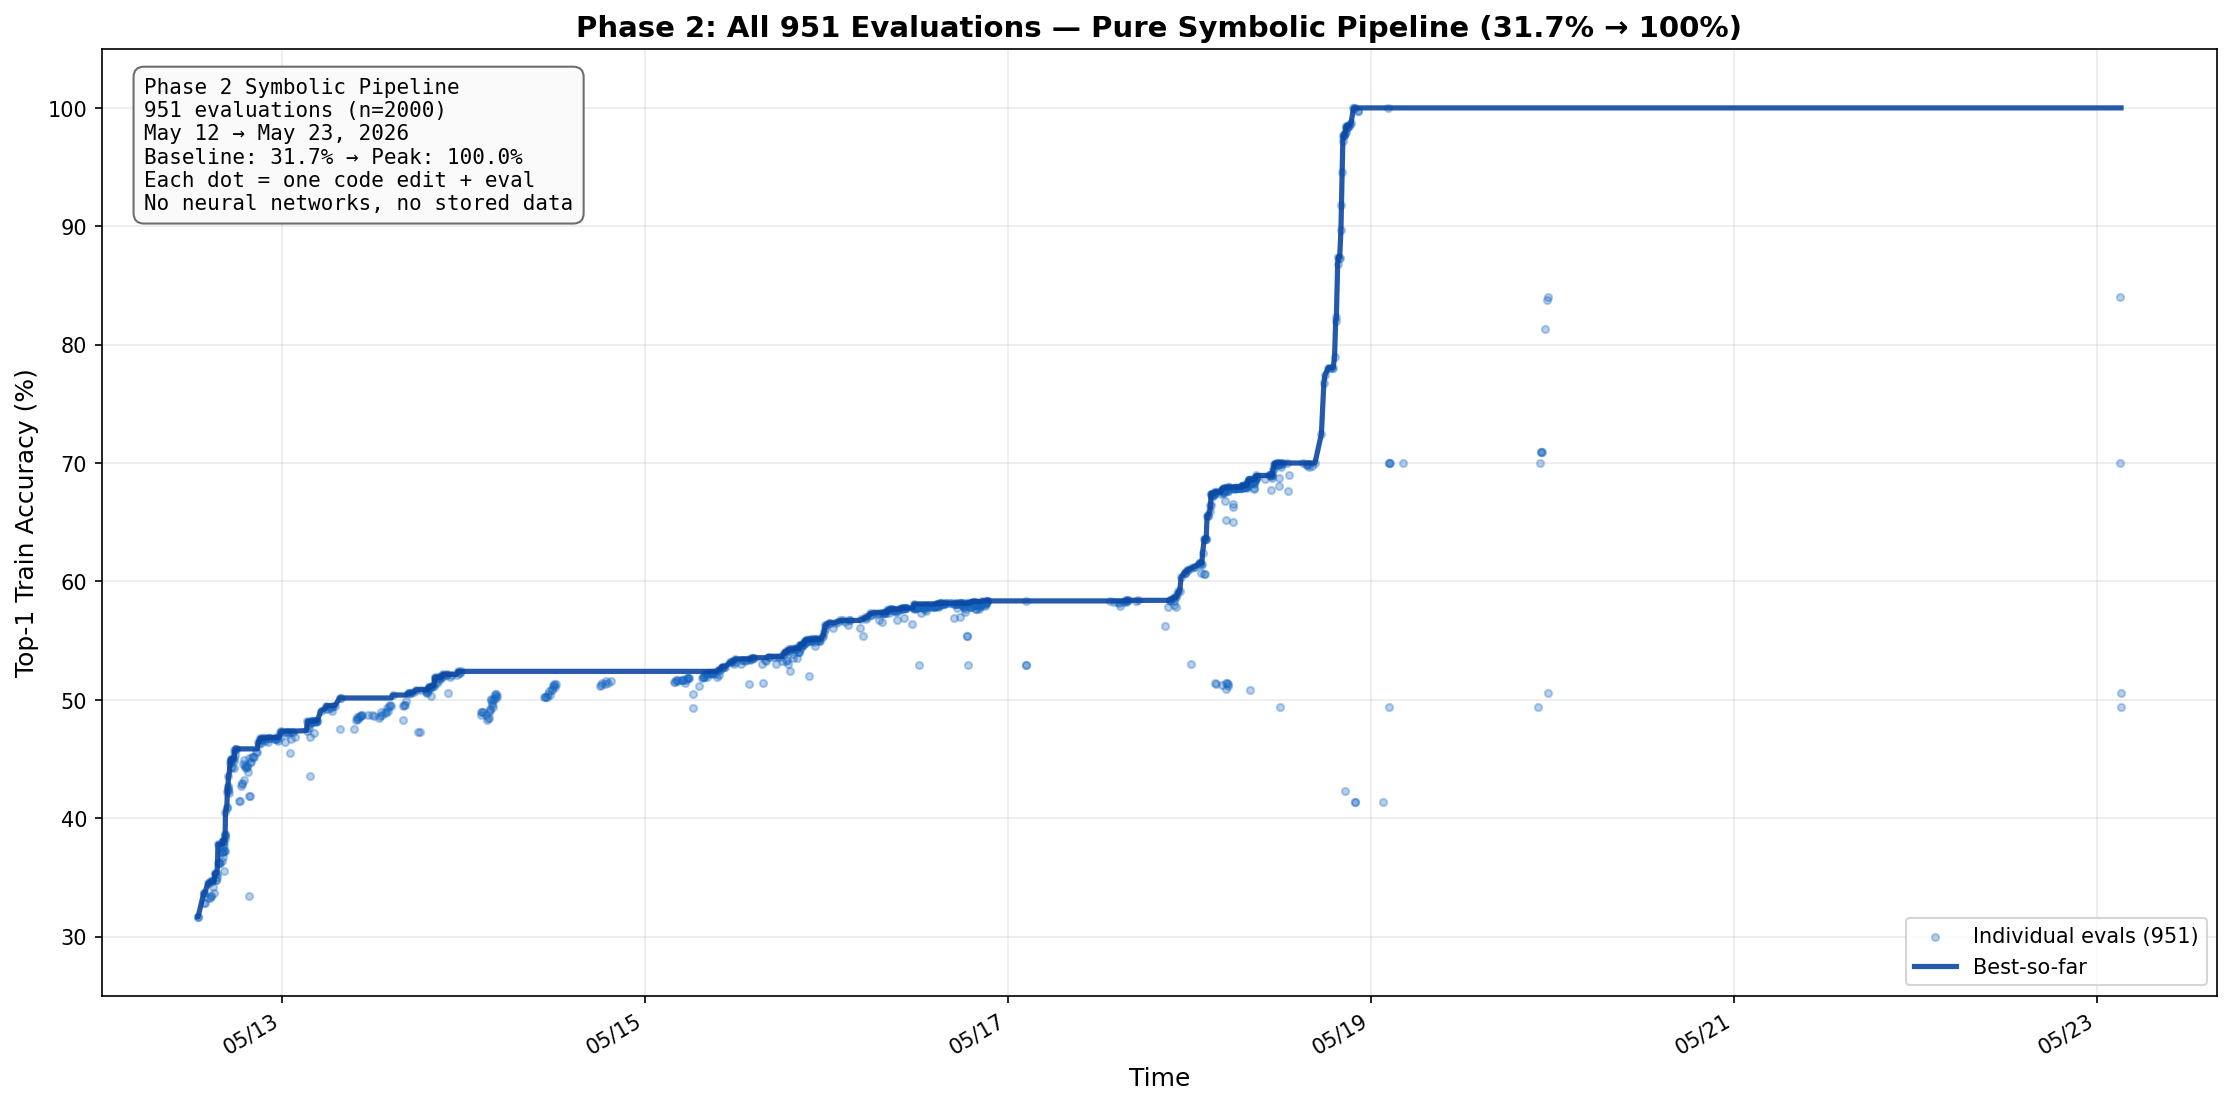
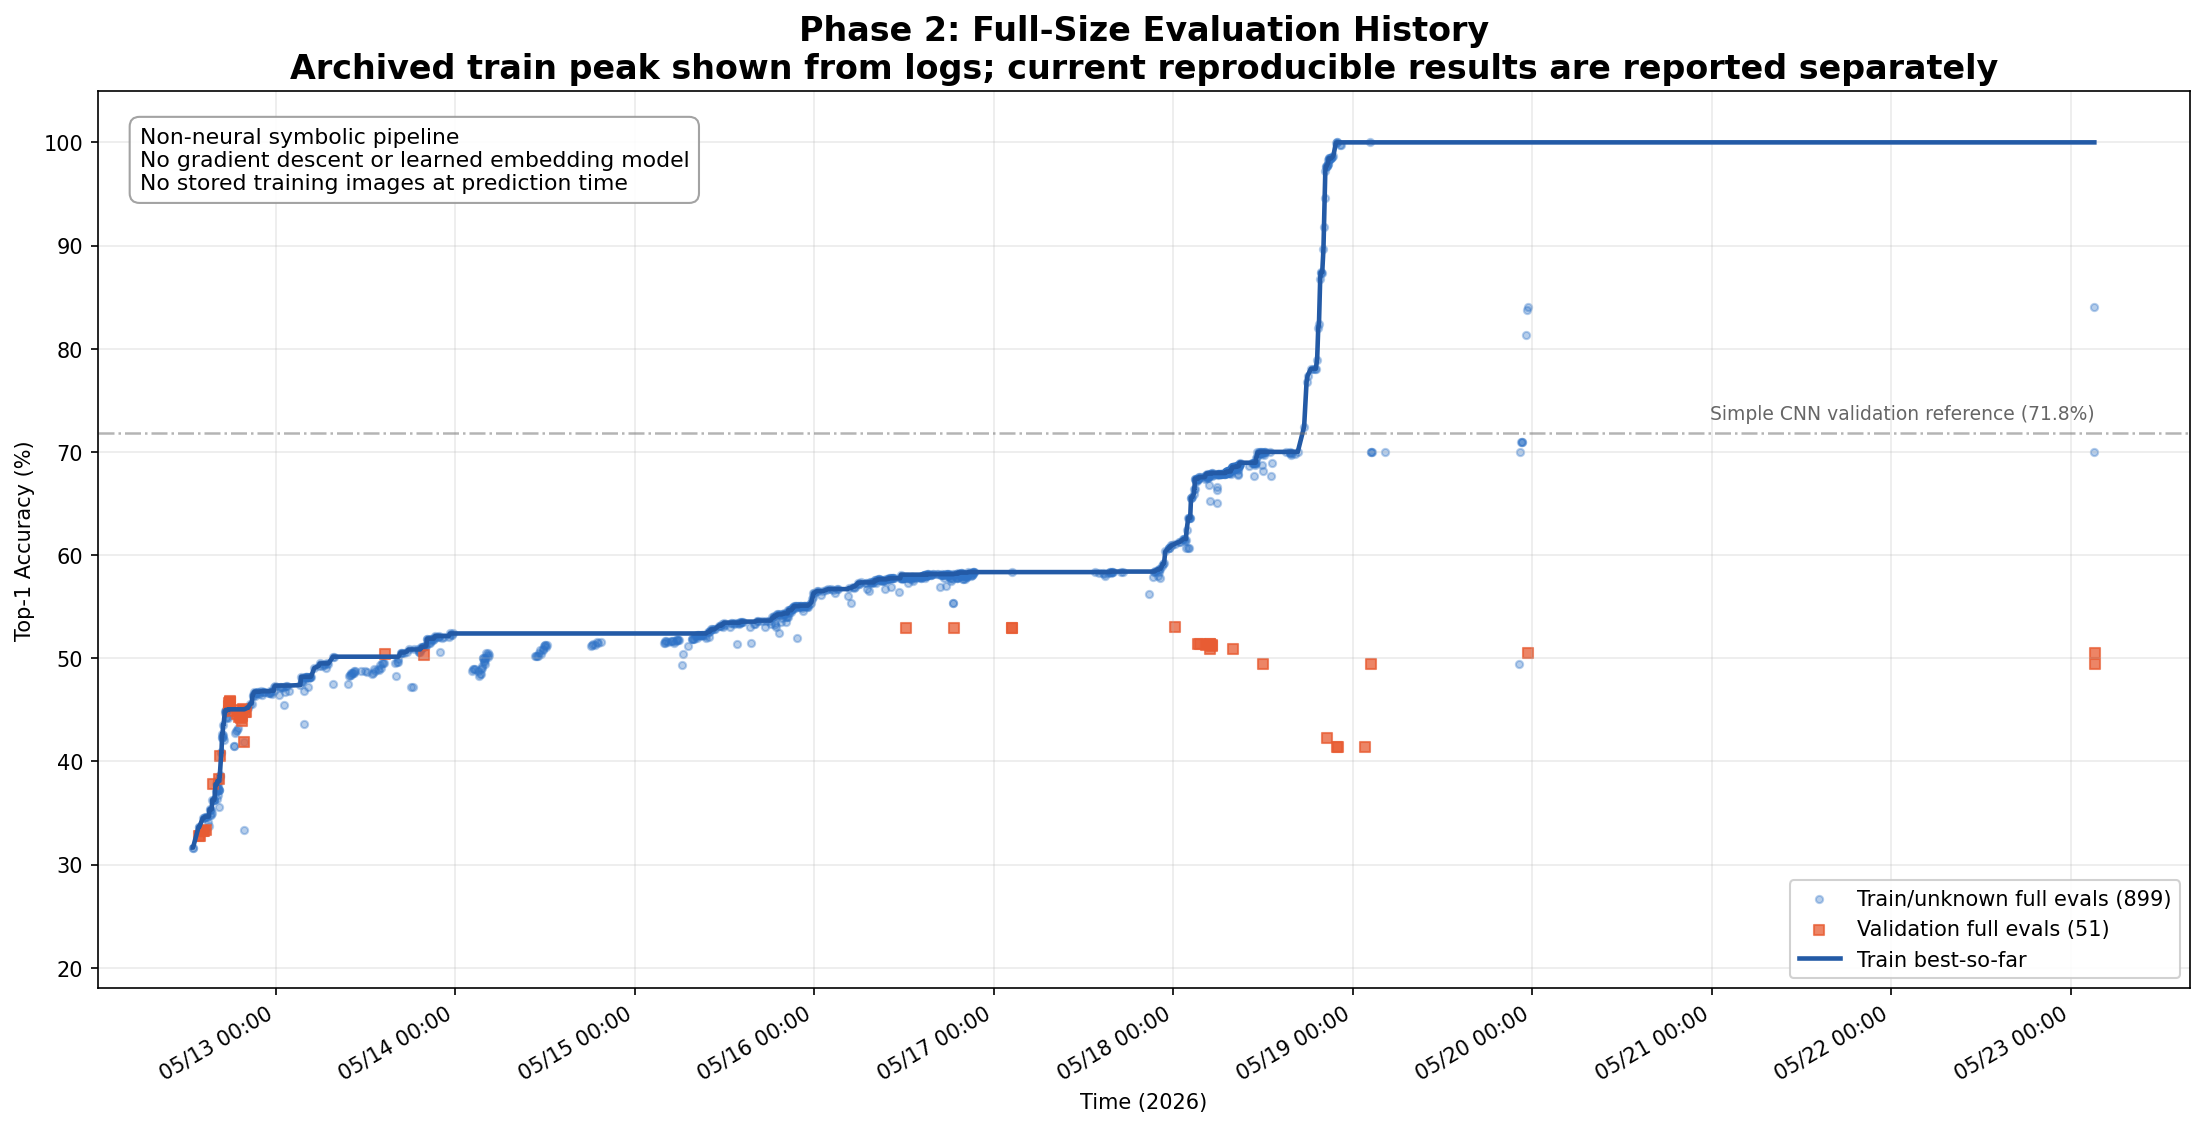
docs: update Phase 2 blog citations and plots

diff --git a/scripts/plot10_all_evaluations.py b/scripts/plot10_all_evaluations.py
@@ -1,0 +1,138 @@
+"""Generate the Phase 2 full-size evaluation history plot.
+
+The plot is deliberately descriptive rather than a reproducibility claim:
+historical archived peaks are shown as logs, while current reproducible
+numbers are reported in the README/blog tables.
+"""
+
+from __future__ import annotations
+
+import json
+from datetime import datetime
+from pathlib import Path
+
+import matplotlib.dates as mdates
+import matplotlib.pyplot as plt
+
+
+ROOT = Path(__file__).resolve().parents[1]
+LOGS_DIR = ROOT / "logs" / "phase2"
+OUT = ROOT / "docs" / "phase2" / "plots" / "10_all_evaluations.png"
+
+
+def load_points() -> tuple[list[dict], list[dict]]:
+    train = []
+    val = []
+    for path in sorted(LOGS_DIR.glob("*.json")):
+        try:
+            data = json.loads(path.read_text())
+            if data.get("n_samples") != 2000:
+                continue
+            tag = data.get("tag", "")
+            if "knn" in tag.lower() or "bear_gr_val" in tag.lower():
+                continue
+            ts = datetime.strptime(data["timestamp"][:19], "%Y-%m-%d_%H-%M-%S")
+            point = {
+                "dt": ts,
+                "acc": 100 * float(data["top1_accuracy"]),
+                "tag": tag,
+            }
+            if "val" in tag.lower():
+                val.append(point)
+            else:
+                train.append(point)
+        except Exception:
+            continue
+    train.sort(key=lambda p: p["dt"])
+    val.sort(key=lambda p: p["dt"])
+    return train, val
+
+
+def best_so_far(points: list[dict]) -> tuple[list[datetime], list[float]]:
+    dates = []
+    best = []
+    current = float("-inf")
+    for p in points:
+        current = max(current, p["acc"])
+        dates.append(p["dt"])
+        best.append(current)
+    return dates, best
+
+
+def main() -> None:
+    train, val = load_points()
+    all_points = train + val
+    all_points.sort(key=lambda p: p["dt"])
+    if not all_points:
+        raise RuntimeError("No full-size Phase 2 eval logs found")
+
+    fig, ax = plt.subplots(figsize=(18, 8.8))
+
+    ax.scatter(
+        [p["dt"] for p in train],
+        [p["acc"] for p in train],
+        s=12,
+        alpha=0.35,
+        color="#2f73c7",
+        label=f"Train/unknown full evals ({len(train)})",
+    )
+    ax.scatter(
+        [p["dt"] for p in val],
+        [p["acc"] for p in val],
+        s=22,
+        alpha=0.75,
+        marker="s",
+        color="#e85c33",
+        label=f"Validation full evals ({len(val)})",
+    )
+
+    b_dates, b_accs = best_so_far(train)
+    ax.plot(b_dates, b_accs, color="#235aa6", linewidth=2.2, label="Train best-so-far")
+
+    ax.axhline(71.8, color="#777777", linestyle="-.", linewidth=1.2, alpha=0.55)
+    ax.text(
+        all_points[-1]["dt"],
+        72.8,
+        "Simple CNN validation reference (71.8%)",
+        ha="right",
+        va="bottom",
+        color="#666666",
+        fontsize=9,
+    )
+
+    ax.set_title(
+        "Phase 2: Full-Size Evaluation History\n"
+        "Archived train peak shown from logs; current reproducible results are reported separately",
+        fontsize=16,
+        fontweight="bold",
+    )
+    ax.text(
+        0.02,
+        0.96,
+        "Non-neural symbolic pipeline\n"
+        "No gradient descent or learned embedding model\n"
+        "No stored training images at prediction time",
+        transform=ax.transAxes,
+        va="top",
+        ha="left",
+        fontsize=10.5,
+        bbox=dict(boxstyle="round,pad=0.45", facecolor="white", edgecolor="#999999", alpha=0.9),
+    )
+
+    ax.set_ylabel("Top-1 Accuracy (%)")
+    ax.set_xlabel("Time (2026)")
+    ax.set_ylim(18, 105)
+    ax.grid(True, alpha=0.25)
+    ax.legend(loc="lower right", framealpha=0.9)
+    ax.xaxis.set_major_formatter(mdates.DateFormatter("%m/%d %H:%M"))
+    ax.xaxis.set_major_locator(mdates.DayLocator())
+    fig.autofmt_xdate(rotation=30, ha="right")
+
+    OUT.parent.mkdir(parents=True, exist_ok=True)
+    fig.savefig(OUT, dpi=150, bbox_inches="tight", facecolor="white")
+    plt.close(fig)
+    print(f"Saved {OUT.relative_to(ROOT)} with {len(train)} train/unknown and {len(val)} val evals")
+
+
+if __name__ == "__main__":
+    main()

diff --git a/scripts/plot09_pipeline_architecture.py b/scripts/plot09_pipeline_architecture.py
@@ -1,0 +1,136 @@
+"""Generate the Phase 2 symbolic pipeline architecture figure.
+
+This plot is intentionally qualitative. Numeric annotations tend to become
+stale as the classifier changes, so audited accuracy numbers belong in the
+trajectory, ablation, and gap plots instead.
+"""
+
+from pathlib import Path
+
+import matplotlib.pyplot as plt
+from matplotlib.patches import FancyArrowPatch, Rectangle
+
+
+ROOT = Path(__file__).resolve().parents[1]
+OUT = ROOT / "docs" / "phase2" / "plots" / "09_pipeline_architecture.png"
+
+
+def main() -> None:
+    fig, ax = plt.subplots(figsize=(17.0, 5.0))
+    ax.set_xlim(0, 17.0)
+    ax.set_ylim(0, 5.0)
+    ax.axis("off")
+
+    title_y = 5.05
+    ax.text(
+        7.75,
+        title_y,
+        "Phase 2 Symbolic Pipeline Architecture",
+        ha="center",
+        va="center",
+        fontsize=20,
+        fontweight="bold",
+    )
+    ax.text(
+        7.75,
+        4.58,
+        "Non-neural symbolic code — no gradient descent, no learned embedding model, no stored training images at prediction time",
+        ha="center",
+        va="center",
+        fontsize=12,
+        color="#666666",
+    )
+
+    boxes = [
+        ("Image\n64x64", "#dcecf8"),
+        ("Scene Graph\n+ Features", "#e4f2e6"),
+        ("Signature\nScoring", "#fbefd9"),
+        ("Histogram\nBlend", "#fbefd9"),
+        ("Pairwise\nRerank", "#e4f2e6"),
+        ("Verify\nConditions", "#f8e4e8"),
+        ("Prediction", "#dcecf8"),
+    ]
+
+    x0 = 0.45
+    y0 = 2.05
+    box_w = 1.82
+    box_h = 1.22
+    gap = 0.52
+
+    centers = []
+    for i, (label, color) in enumerate(boxes):
+        x = x0 + i * (box_w + gap)
+        centers.append((x + box_w / 2, y0 + box_h / 2))
+        ax.add_patch(
+            Rectangle(
+                (x, y0),
+                box_w,
+                box_h,
+                facecolor=color,
+                edgecolor="#333333",
+                linewidth=1.8,
+            )
+        )
+        ax.text(
+            x + box_w / 2,
+            y0 + box_h / 2,
+            label,
+            ha="center",
+            va="center",
+            fontsize=12.5,
+            fontweight="bold",
+            linespacing=0.95,
+        )
+
+    for i in range(len(boxes) - 1):
+        start = (centers[i][0] + box_w / 2, centers[i][1])
+        end = (centers[i + 1][0] - box_w / 2, centers[i + 1][1])
+        ax.add_patch(
+            FancyArrowPatch(
+                start,
+                end,
+                arrowstyle="->",
+                mutation_scale=16,
+                linewidth=1.8,
+                color="#333333",
+            )
+        )
+
+    annotations = {
+        1: "visual\nmeasurements",
+        2: "feature\nconjunctions",
+        3: "compact\nprototypes",
+        4: "confusion\ncorrections",
+        5: "symbolic\nchecks",
+    }
+    for idx, text in annotations.items():
+        cx, _ = centers[idx]
+        ax.text(
+            cx,
+            1.25,
+            text,
+            ha="center",
+            va="center",
+            fontsize=9.6,
+            color="#666666",
+            linespacing=1.05,
+        )
+
+    ax.text(
+        8.5,
+        0.42,
+        "Qualitative architecture only; audited accuracy numbers are shown in the trajectory, ablation, and generalization-gap plots.",
+        ha="center",
+        va="center",
+        fontsize=10.2,
+        color="#777777",
+    )
+
+    OUT.parent.mkdir(parents=True, exist_ok=True)
+    fig.savefig(OUT, dpi=150, bbox_inches="tight", facecolor="white")
+    plt.close(fig)
+    print(f"Saved {OUT.relative_to(ROOT)}")
+
+
+if __name__ == "__main__":
+    main()

diff --git a/docs/phase2/blog.md b/docs/phase2/blog.md
@@ -183,7 +183,7 @@ The code looks interpretable, but interpretability does not automatically imply 
 
 ![Pipeline ablation](plots/03_pipeline_ablation.png)
 
-*Figure 5. The ablation story is more informative than the single final number. Pairwise reranking is the useful transfer layer; the verify stages add train accuracy but do not form the highest-validation symbolic classifier.*
+*Figure 5. The ablation story is more informative than the single final number. Val accuracy peaks at +Local Verify (52.7%), then drops as more verify stages are added. The later stages push train from 62% to 84% while val stays flat or drops — the signature of executable memorization.*
 
 ---
 
@@ -589,10 +589,6 @@ Or more carefully:
 
 *Figure 8. The comparison to the small CNN is not meant as a leaderboard claim. It is a diagnostic: learned representation still gives a much stronger validation result than the current hand-built symbolic representation.*
 
-![Feature ceiling](plots/07_feature_ceiling.png)
-
-*Figure 9. Repeated feature and model-combination experiments suggest a ceiling for the current global/coarse feature set. The next gain likely needs better object-centered and local reusable operators, not another layer of narrow threshold patches.*
-
 ---
 
 ## Remaining Challenges
@@ -718,3 +714,15 @@ That is where Phase 2 leaves the project.
 The next phase should stop chasing train accuracy. It should build a generalization-aware heuristic-learning loop: held-out selection, patch regularization, better visual primitives, and credit assignment over code edits.
 
 The goal is not to prove that symbolic vision beats neural networks. The goal is to understand what happens when code itself becomes the trainable object.
+
+---
+
+## References
+
+Weng, J. (2026). *Learning Beyond Gradients*. Blog post. https://trinkle23897.github.io/learning-beyond-gradients/
+
+## Suggested Citation
+
+If you cite this project or blog post, please cite:
+
+Wang, X. (2026). *Heuristic Learning for Symbolic ImageNet-10*. Project blog. https://github.com/xisen-w/hl-imagenet
